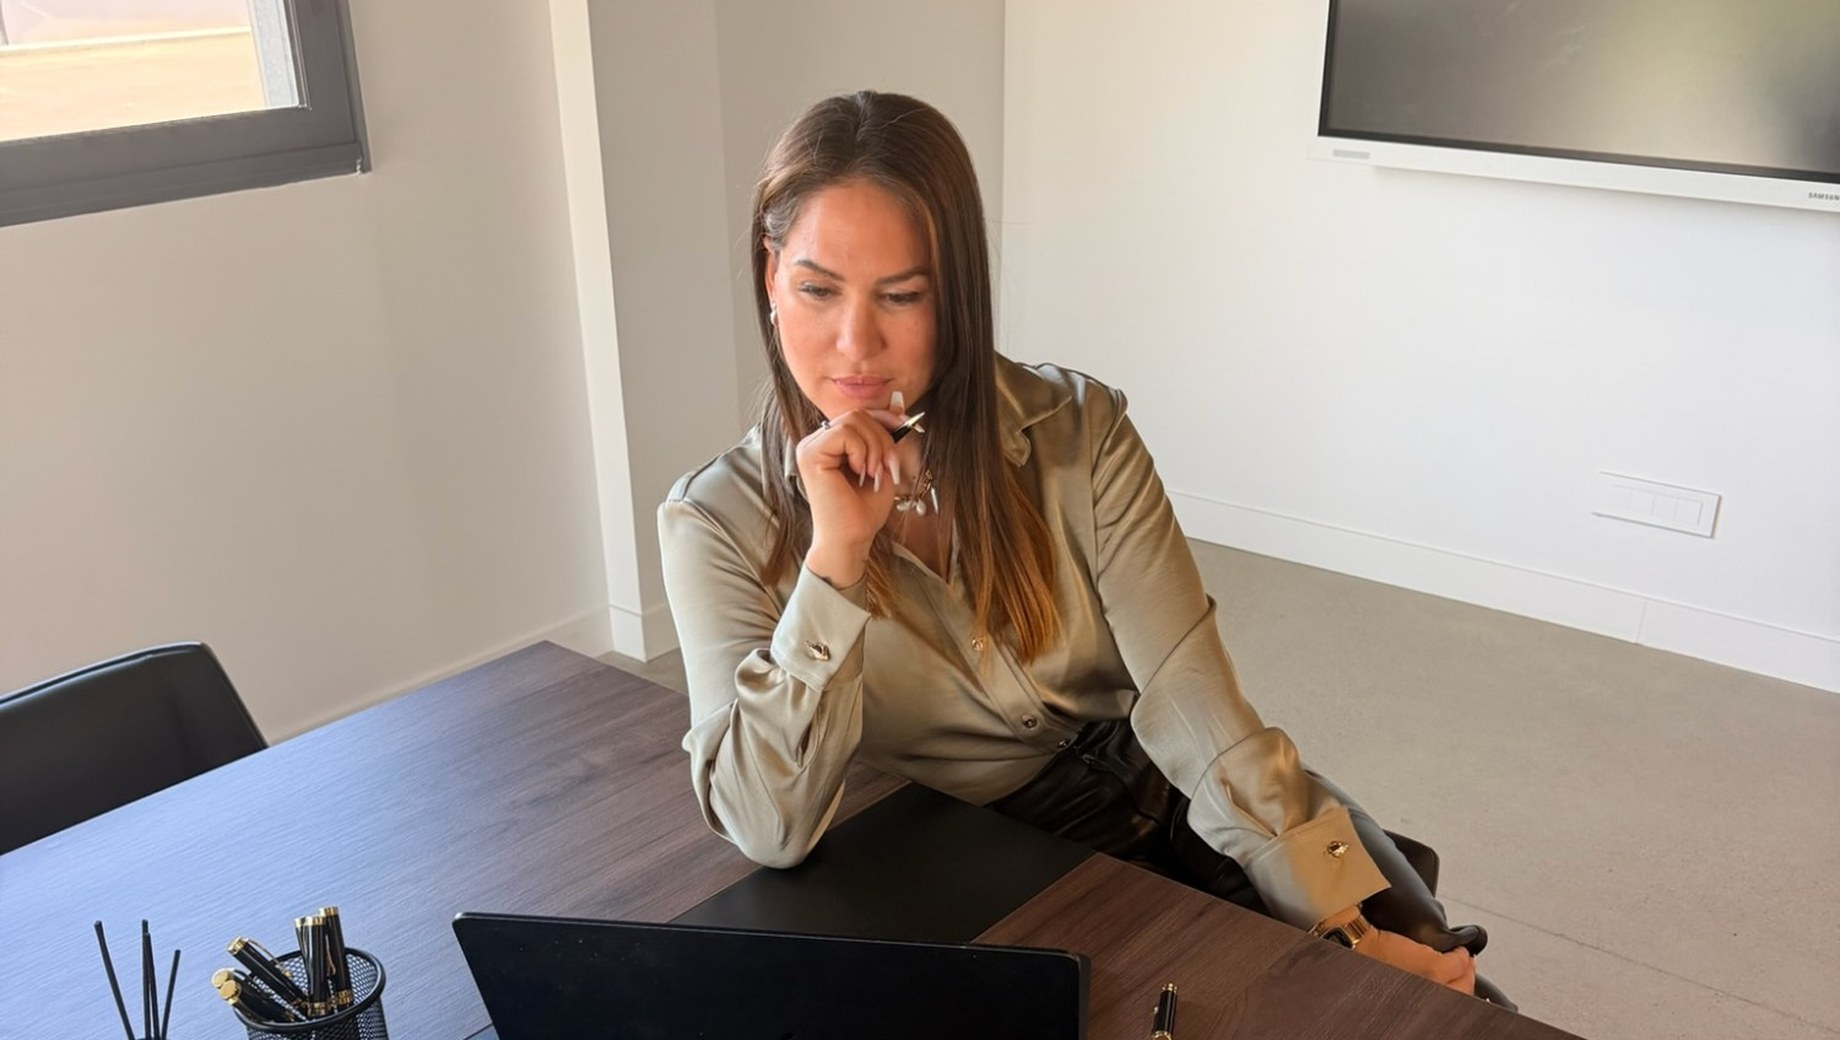
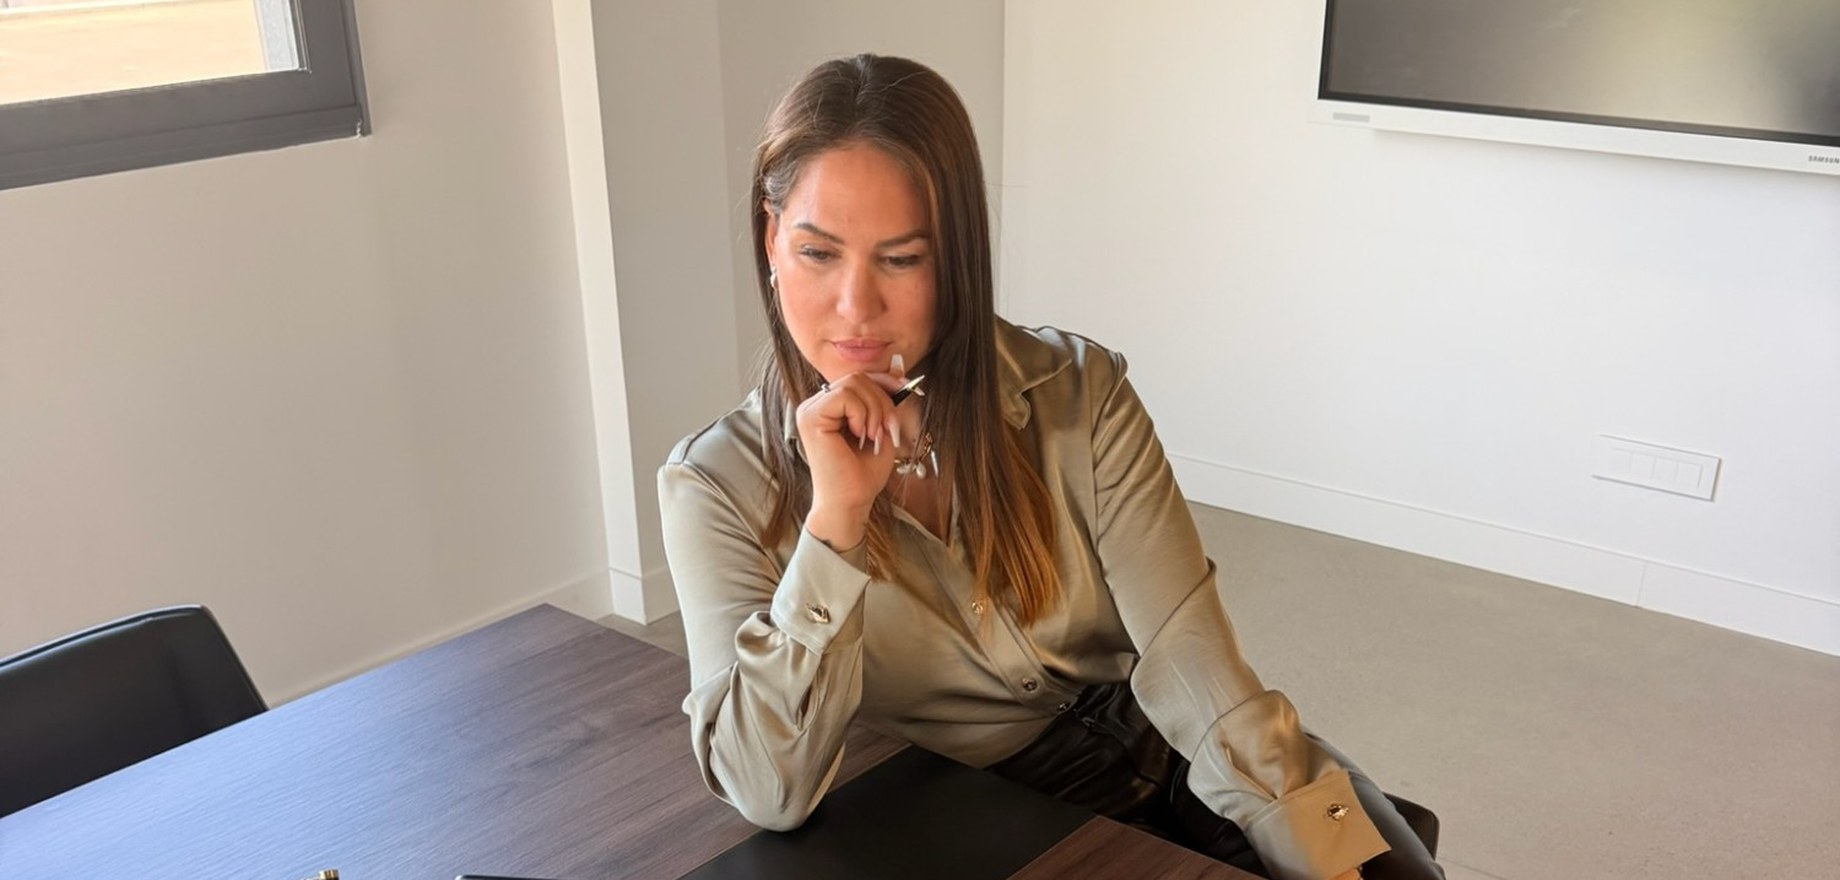
Couverture fisc : version minimaliste
Plus rien ne chevauche la photo : les six cases reviennent en rangee
alignee, sans rotation ni fond plein, et le bouton swipe retrouve son
style normal, tous deux sur la meme bande au-dessus de l'image. Le
bandeau photo passe de 520 a 440px de haut, recadre en consequence.

Claude-Session: https://claude.ai/code/session_01JgjaVc8GDMA4sZRNpbXpxq

diff --git a/carrousel/slides/fisc/slide-01.html b/carrousel/slides/fisc/slide-01.html
@@ -26,51 +26,47 @@
         <span class="blue ul-blue">PRIORITÉ</span> du fisc.
       </h1>
       <p class="body muted" style="margin-top:40px">Expatrié français ? Compte tes cases.</p>
-      <div class="shot"><img src="../../assets/fisc-bureau.jpg" alt=""></div>
-      <div class="cbox-fan" style="position:absolute;left:112px;top:748px">
+      <div class="cbox-fan" style="position:absolute;left:80px;top:748px;gap:18px">
         
-<svg class="cbox" width="64" height="64" viewBox="0 0 72 72" aria-hidden="true" style="transform:rotate(-9deg) translateY(14px)">
+<svg class="cbox" width="48" height="48" viewBox="0 0 72 72" aria-hidden="true" style="">
   <rect x="2.5" y="2.5" width="67" height="67" rx="16"
-        fill="#F7F8FC" stroke="#4353FF" stroke-width="3"/>
+        fill="none" stroke="#4353FF" stroke-width="3"/>
+  <path d="M17,38 L30,52 L56,19" fill="none" stroke="#4353FF" stroke-width="6"
+       stroke-linecap="round" stroke-linejoin="round"/>
+</svg>
+<svg class="cbox" width="48" height="48" viewBox="0 0 72 72" aria-hidden="true" style="">
+  <rect x="2.5" y="2.5" width="67" height="67" rx="16"
+        fill="none" stroke="#4353FF" stroke-width="3"/>
+  <path d="M17,38 L30,52 L56,19" fill="none" stroke="#4353FF" stroke-width="6"
+       stroke-linecap="round" stroke-linejoin="round"/>
+</svg>
+<svg class="cbox" width="48" height="48" viewBox="0 0 72 72" aria-hidden="true" style="">
+  <rect x="2.5" y="2.5" width="67" height="67" rx="16"
+        fill="none" stroke="#4353FF" stroke-width="3"/>
   <path d="M17,38 L30,52 L56,19" fill="none" stroke="#4353FF" stroke-width="6"
        stroke-linecap="round" stroke-linejoin="round"/>
 </svg>
         
-<svg class="cbox" width="64" height="64" viewBox="0 0 72 72" aria-hidden="true" style="transform:rotate(-5deg) translateY(6px)">
+<svg class="cbox" width="48" height="48" viewBox="0 0 72 72" aria-hidden="true" style="">
   <rect x="2.5" y="2.5" width="67" height="67" rx="16"
-        fill="#F7F8FC" stroke="#4353FF" stroke-width="3"/>
-  <path d="M17,38 L30,52 L56,19" fill="none" stroke="#4353FF" stroke-width="6"
-       stroke-linecap="round" stroke-linejoin="round"/>
-</svg>
-        
-<svg class="cbox" width="64" height="64" viewBox="0 0 72 72" aria-hidden="true" style="transform:rotate(-2deg)">
-  <rect x="2.5" y="2.5" width="67" height="67" rx="16"
-        fill="#F7F8FC" stroke="#4353FF" stroke-width="3"/>
-  <path d="M17,38 L30,52 L56,19" fill="none" stroke="#4353FF" stroke-width="6"
-       stroke-linecap="round" stroke-linejoin="round"/>
-</svg>
-        
-<svg class="cbox" width="64" height="64" viewBox="0 0 72 72" aria-hidden="true" style="transform:rotate(2deg)">
-  <rect x="2.5" y="2.5" width="67" height="67" rx="16"
-        fill="#F7F8FC" stroke="#4353FF" stroke-width="3"/>
+        fill="none" stroke="#4353FF" stroke-width="3"/>
   
 </svg>
-        
-<svg class="cbox" width="64" height="64" viewBox="0 0 72 72" aria-hidden="true" style="transform:rotate(5deg) translateY(6px)">
+<svg class="cbox" width="48" height="48" viewBox="0 0 72 72" aria-hidden="true" style="">
   <rect x="2.5" y="2.5" width="67" height="67" rx="16"
-        fill="#F7F8FC" stroke="#4353FF" stroke-width="3"/>
+        fill="none" stroke="#4353FF" stroke-width="3"/>
   
 </svg>
-        
-<svg class="cbox" width="64" height="64" viewBox="0 0 72 72" aria-hidden="true" style="transform:rotate(9deg) translateY(14px)">
+<svg class="cbox" width="48" height="48" viewBox="0 0 72 72" aria-hidden="true" style="">
   <rect x="2.5" y="2.5" width="67" height="67" rx="16"
-        fill="#F7F8FC" stroke="#4353FF" stroke-width="3"/>
+        fill="none" stroke="#4353FF" stroke-width="3"/>
   
 </svg>
       </div>
-      <div class="swipe swipe--plate" style="position:absolute;top:758px;right:112px">
+      <div class="swipe" style="position:absolute;top:740px;right:80px">
         <span class="swipe-txt">SWIPE</span><span class="swipe-dot">&rarr;</span>
       </div>
+      <div class="shot"><img src="../../assets/fisc-bureau.jpg" alt=""></div>
 </div>
 </body>
 </html>

diff --git a/carrousel/src/slides-fisc.js b/carrousel/src/slides-fisc.js
@@ -192,18 +192,14 @@ module.exports = { DECOR, slides: [
         <span class="blue ul-blue">PRIORITÉ</span> du fisc.
       </h1>
       <p class="body muted" style="margin-top:40px">Expatrié français ? Compte tes cases.</p>
-      ${shotBlock}
-      <div class="cbox-fan" style="position:absolute;left:112px;top:748px">
-        ${cbox(true, 64, 'transform:rotate(-9deg) translateY(14px)', true)}
-        ${cbox(true, 64, 'transform:rotate(-5deg) translateY(6px)', true)}
-        ${cbox(true, 64, 'transform:rotate(-2deg)', true)}
-        ${cbox(false, 64, 'transform:rotate(2deg)', true)}
-        ${cbox(false, 64, 'transform:rotate(5deg) translateY(6px)', true)}
-        ${cbox(false, 64, 'transform:rotate(9deg) translateY(14px)', true)}
+      <div class="cbox-fan" style="position:absolute;left:80px;top:748px;gap:18px">
+        ${cbox(true, 48)}${cbox(true, 48)}${cbox(true, 48)}
+        ${cbox(false, 48)}${cbox(false, 48)}${cbox(false, 48)}
       </div>
-      <div class="swipe swipe--plate" style="position:absolute;top:758px;right:112px">
+      <div class="swipe" style="position:absolute;top:740px;right:80px">
         <span class="swipe-txt">SWIPE</span><span class="swipe-dot">&rarr;</span>
-      </div>`
+      </div>
+      ${shotBlock}`
   },
 
   /* ================= 02 · COMMENT ÇA MARCHE ================= */

diff --git a/carrousel/src/style.css b/carrousel/src/style.css
@@ -683,7 +683,7 @@ html, body {
 
 /* photo de couverture (deck « fisc ») : bandeau cadré, radius et ombre maison */
 .shot {
-  position: absolute; left: 80px; bottom: 80px; width: 920px; height: 520px;
+  position: absolute; left: 80px; bottom: 80px; width: 920px; height: 440px;
   border-radius: var(--r); overflow: hidden;
   box-shadow: 0 30px 70px rgba(67, 83, 255, 0.18), 0 10px 24px rgba(18, 18, 31, 0.08);
 }
